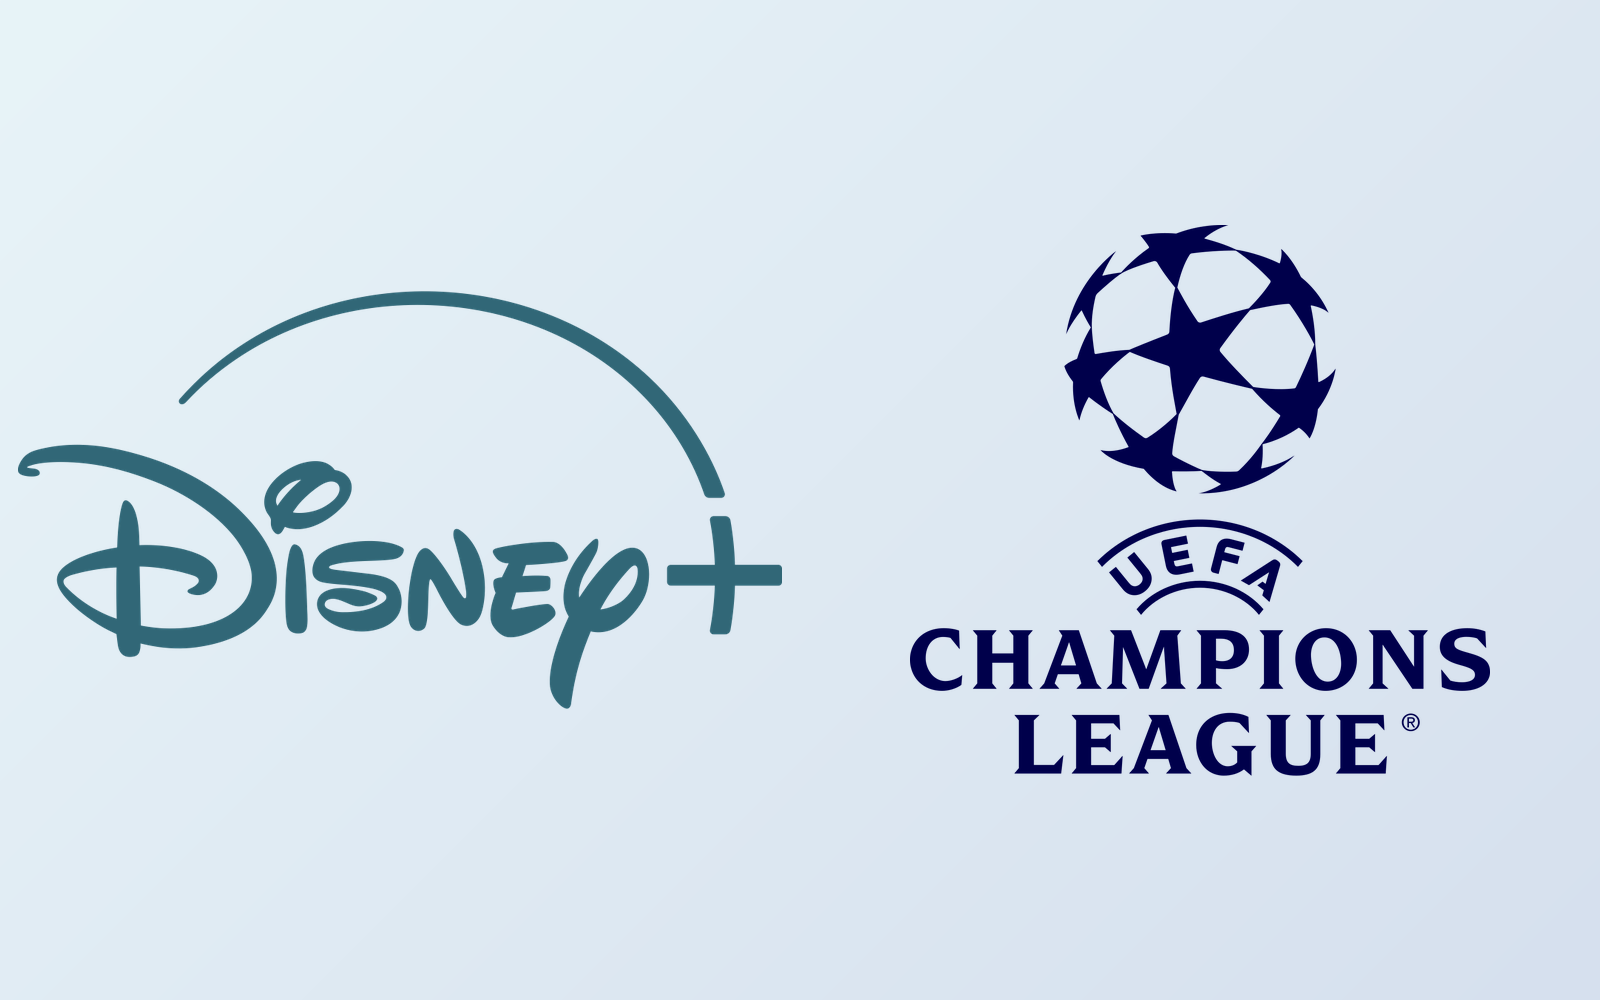
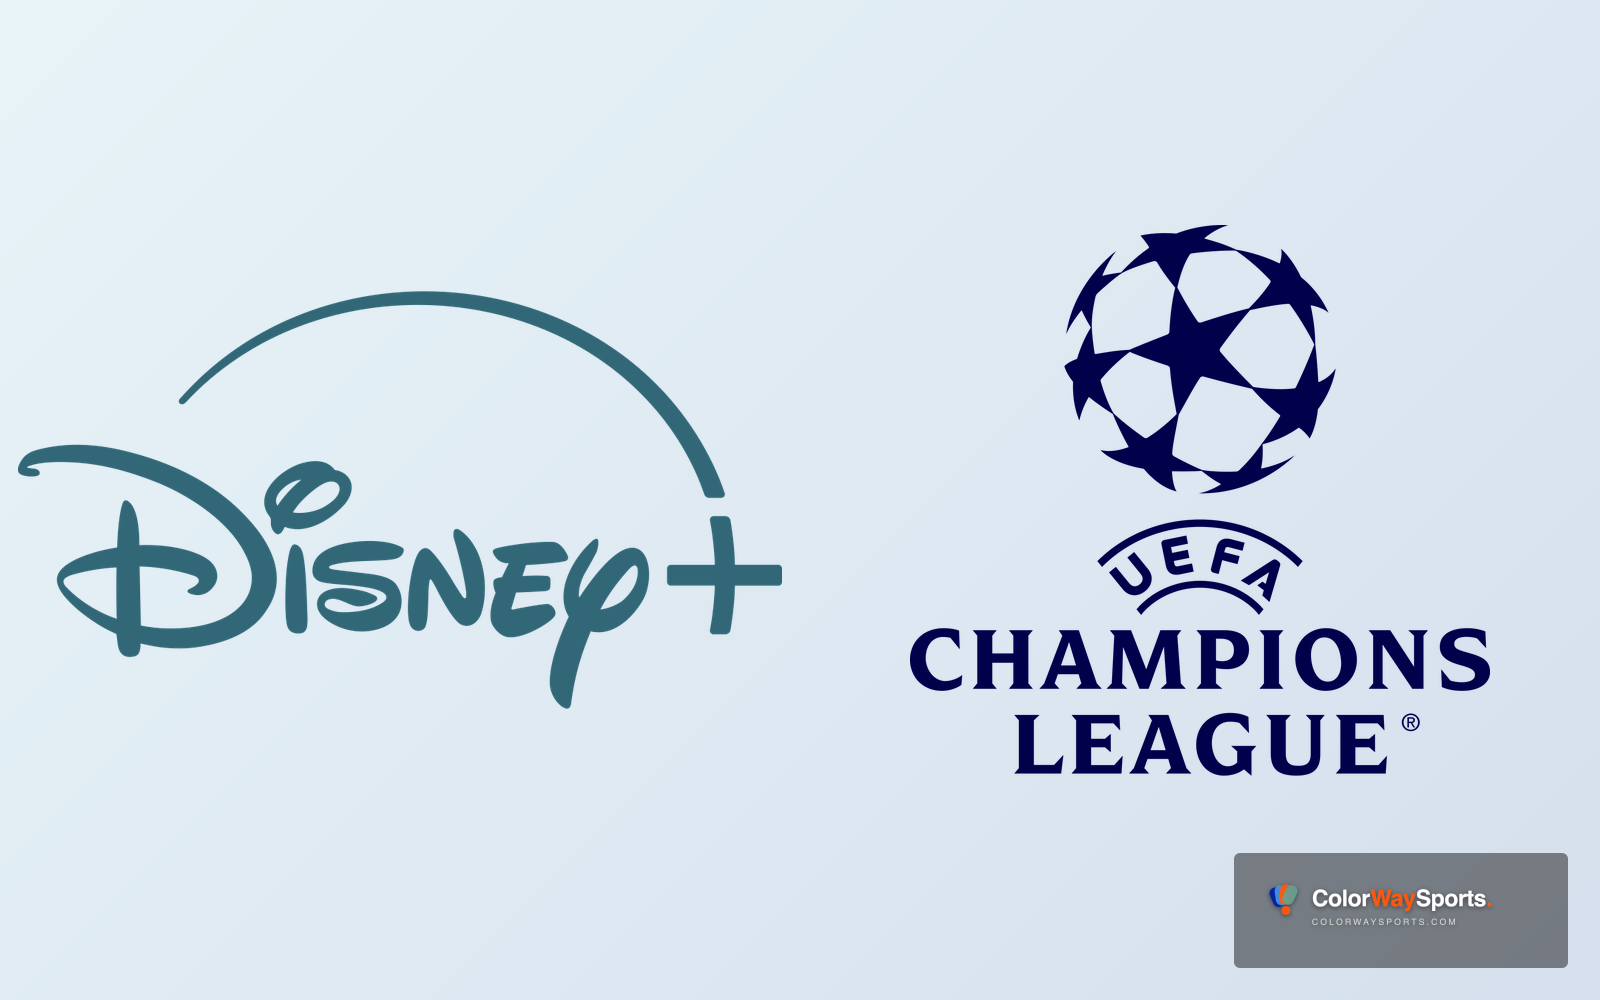
Add NBA broadcast themes ranked post and watermark all custom composites
New post ranks 2025-26 NBA broadcast theme songs (NBC A+, Prime B, ESPN C) with throwback A+ love for the retired NBA on TNT and old NBA on ESPN themes. Includes a 3-up cover composite, five YouTube embeds, and a 7-question FAQ. Also runs scripts/watermark.mjs over the existing Pac-12 old-vs-new and Disney+ x UCL composites so every custom graphic now carries the ColorWay Sports brand mark for screenshot reposts.

Changed region(s): [[0.75, 0.837, 1.0, 0.992]]

diff --git a/content/posts/nba-broadcast-themes-ranked-2026.md b/content/posts/nba-broadcast-themes-ranked-2026.md
@@ -1,0 +1,120 @@
+---
+title: "NBA on NBC vs Prime vs ESPN: Every 2025-26 Broadcast Theme Song Ranked"
+category: "NBA"
+date: "2026-04-27"
+excerpt: "We rank the 2025-26 NBA broadcast theme songs across NBC, Prime Video, and ESPN, with throwback love for the retired NBA on TNT and old NBA on ESPN intros."
+gradient: "linear-gradient(135deg, #F0F4F8 0%, #D8E2EC 100%)"
+league: "nba"
+teams: []
+coverImage: "/images/posts/nba-broadcast-themes-ranked-2026/nba-broadcast-themes-ranked-cover.png"
+coverImagePosition: "center 50%"
+coverImageFit: "contain"
+---
+
+<img src="/images/posts/nba-broadcast-themes-ranked-2026/nba-broadcast-themes-ranked-cover.png" alt="NBA on NBC, NBA on Prime, and NBA on ESPN logos lined up for the 2025-26 NBA broadcast theme song ranking" style="width: 100%; border-radius: 10px; margin-bottom: 2.5em;" />
+
+The 2025-26 season is the first year the NBA's national broadcast partners are split across NBC, Prime Video, and ESPN. TNT is out for the first time in 35 years. NBC is back for the first time since 2002. Prime Video is brand new to the league. Every one of those networks rolled out a theme song with their broadcast package, and the contrast between the three is one of the loudest design stories of the year. We ranked them, with bonus love for two retired themes that defined the previous era.
+
+## The 2025-26 NBA Broadcast Theme Songs Ranked
+
+### 1. NBA on NBC
+
+<div style="position: relative; padding-bottom: 56.25%; height: 0; overflow: hidden; max-width: 100%; margin: 2em 0; border-radius: 12px;">
+  <iframe src="https://www.youtube.com/embed/hl-eNWcgTYM" title="NBA on NBC theme song 2025-26 — Roundball Rock returns" frameborder="0" allow="accelerometer; autoplay; clipboard-write; encrypted-media; gyroscope; picture-in-picture; web-share" allowfullscreen style="position: absolute; top: 0; left: 0; width: 100%; height: 100%;"></iframe>
+</div>
+
+<div style="margin: 1.5em 0; padding: 1.25em; background: rgba(0, 200, 100, 0.1); border-radius: 12px; border: 1px solid rgba(0, 200, 100, 0.2);">
+  <p style="font-size: 1.5em; font-weight: 900; margin: 0; text-align: center; color: #00c864;">Grade: A+</p>
+</div>
+
+The absolute best of the three. NBC made the only choice that mattered when they got the NBA back: bring Roundball Rock with them. The John Tesh composition that scored every NBA broadcast in the 90s is one of the most iconic theme songs in the history of American sports television, and dropping it at the front of every NBC NBA broadcast in 2025-26 is the kind of move that wins fans before tip-off. The horns hit, the melody rises, and a generation of viewers gets a memory they did not even know they were waiting for. There is no version of this rollout that scores below an A+. NBC understood the assignment.
+
+### 2. NBA on Prime
+
+<div style="position: relative; padding-bottom: 56.25%; height: 0; overflow: hidden; max-width: 100%; margin: 2em 0; border-radius: 12px;">
+  <iframe src="https://www.youtube.com/embed/qflGqrymvTk" title="NBA on Prime Video theme song 2025-26" frameborder="0" allow="accelerometer; autoplay; clipboard-write; encrypted-media; gyroscope; picture-in-picture; web-share" allowfullscreen style="position: absolute; top: 0; left: 0; width: 100%; height: 100%;"></iframe>
+</div>
+
+<div style="margin: 1.5em 0; padding: 1.25em; background: rgba(200, 180, 0, 0.1); border-radius: 12px; border: 1px solid rgba(200, 180, 0, 0.2);">
+  <p style="font-size: 1.5em; font-weight: 900; margin: 0; text-align: center;">Grade: B</p>
+</div>
+
+The Prime Video theme is a real attempt at building a brand new audio identity for a brand new NBA partner. It has a modern cinematic feel, builds slowly, and lands with enough impact to do its job. We actually like it. Prime is starting from zero with no nostalgia equity, and the choice to write something fresh instead of cribbing a familiar sound is the right call for a streaming-first network trying to brand itself as the home for premium NBA broadcasts. It will take time to grow on us the way Roundball Rock or the old TNT theme did, but a generation of fans will eventually remember this as the sound of NBA on Prime. Solid B for now.
+
+### 3. NBA on ABC and ESPN
+
+<div style="position: relative; padding-bottom: 56.25%; height: 0; overflow: hidden; max-width: 100%; margin: 2em 0; border-radius: 12px;">
+  <iframe src="https://www.youtube.com/embed/8L6EsFXh2O8" title="NBA on ESPN and ABC current theme song 2025-26" frameborder="0" allow="accelerometer; autoplay; clipboard-write; encrypted-media; gyroscope; picture-in-picture; web-share" allowfullscreen style="position: absolute; top: 0; left: 0; width: 100%; height: 100%;"></iframe>
+</div>
+
+<div style="margin: 1.5em 0; padding: 1.25em; background: rgba(200, 180, 0, 0.1); border-radius: 12px; border: 1px solid rgba(200, 180, 0, 0.2);">
+  <p style="font-size: 1.5em; font-weight: 900; margin: 0; text-align: center;">Grade: C</p>
+</div>
+
+The current ABC and ESPN NBA theme leans hip-hop, and we get the strategic logic of trying to feel current and connect to the way the NBA culture has evolved. But the song does not carry the elegance the bigger games deserve. Conference Finals on ABC should sound like an event. Saturday Primetime on ABC should sound like the league showing off. Instead the broadcast opens with something that feels closer to a hype reel score than a marquee theme. C from us, with the asterisk that ESPN had a theme that crushed for years and could just bring it back, the same way NBC did with Roundball Rock.
+
+## What We Lost: The Two Retired Themes That Still Hit
+
+Two of the best NBA theme songs ever produced are sitting on the shelf in 2026. The old NBA on ESPN theme that scored an entire era of regular-season and playoff broadcasts. And the NBA on TNT theme, which was the soundtrack to two decades of Eastern Conference Finals and Inside the NBA cold opens. Both deserve their flowers.
+
+### Throwback: Old NBA on ESPN
+
+<div style="position: relative; padding-bottom: 56.25%; height: 0; overflow: hidden; max-width: 100%; margin: 2em 0; border-radius: 12px;">
+  <iframe src="https://www.youtube.com/embed/f-qpdCcUffs" title="Old NBA on ESPN theme song from the regular season and playoff era" frameborder="0" allow="accelerometer; autoplay; clipboard-write; encrypted-media; gyroscope; picture-in-picture; web-share" allowfullscreen style="position: absolute; top: 0; left: 0; width: 100%; height: 100%;"></iframe>
+</div>
+
+<div style="margin: 1.5em 0; padding: 1.25em; background: rgba(0, 200, 100, 0.1); border-radius: 12px; border: 1px solid rgba(0, 200, 100, 0.2);">
+  <p style="font-size: 1.5em; font-weight: 900; margin: 0; text-align: center; color: #00c864;">Grade: A+</p>
+</div>
+
+The old NBA on ESPN theme ran across the regular season and the playoffs and never missed. It carried the right amount of drama, the horns sat at exactly the right register, and the melody had the kind of structural shape you remember without trying. ESPN made the wrong call walking away from it. The 2025-26 ABC and ESPN package would have been instantly upgraded by either reintroducing this theme or building something new that lived in the same emotional pocket. NBC just proved that bringing back the old one is a winning move. ESPN should be next.
+
+### Throwback: NBA on TNT
+
+<div style="position: relative; padding-bottom: 56.25%; height: 0; overflow: hidden; max-width: 100%; margin: 2em 0; border-radius: 12px;">
+  <iframe src="https://www.youtube.com/embed/PA4kJCDaepc" title="NBA on TNT theme song retired after 35 years on Turner" frameborder="0" allow="accelerometer; autoplay; clipboard-write; encrypted-media; gyroscope; picture-in-picture; web-share" allowfullscreen style="position: absolute; top: 0; left: 0; width: 100%; height: 100%;"></iframe>
+</div>
+
+<div style="margin: 1.5em 0; padding: 1.25em; background: rgba(0, 200, 100, 0.1); border-radius: 12px; border: 1px solid rgba(0, 200, 100, 0.2);">
+  <p style="font-size: 1.5em; font-weight: 900; margin: 0; text-align: center; color: #00c864;">Grade: A+</p>
+</div>
+
+The NBA on TNT theme is gone with TNT itself. After 35 years, Turner lost the NBA rights and the theme retired with the package. We grew up with this one. Eastern Conference Finals tipoffs, every Inside the NBA cold open, every Charles Barkley monologue led in by the brass. The TNT theme was a piece of furniture in our basketball lives, and now the room is empty. Maybe we are biased by the history. We are not pretending otherwise. A+ for what it was, what it carried, and what it is going to feel like missing it across every postseason from here on out.
+
+## The Pattern
+
+Two of the three best theme songs in the modern NBA broadcast landscape are themes that retired or returned. The current NBA on NBC theme is a 90s composition that came back. The old NBA on ESPN theme is sitting unused while the current ABC and ESPN package leans on something that does not quite land. The NBA on TNT theme is gone forever along with Turner's run on the league. Nostalgia is winning. NBC saw it. ESPN should see it next.
+
+## Frequently Asked Questions About the 2025-26 NBA Broadcast Theme Songs
+
+**What is the new NBA on NBC theme song for 2025-26?**
+
+NBC brought back Roundball Rock, the John Tesh composition that scored every NBA on NBC broadcast from 1990 to 2002. It is the same theme NBA fans remember from the Jordan-era Bulls, the Magic Johnson Lakers, and the Hakeem Olajuwon Rockets, and NBC reinstated it as the official NBA on NBC theme for the 2025-26 season relaunch.
+
+**Who composed Roundball Rock?**
+
+John Tesh wrote and composed Roundball Rock, originally for the NBA on NBC package that launched in 1990. The theme aired across every NBC NBA broadcast through the 2001-02 season and returned with NBC's NBA package for 2025-26.
+
+**What is the NBA on Prime Video theme song?**
+
+Prime Video debuted a brand new NBA theme song for its inaugural 2025-26 broadcast package. It is a modern cinematic composition built specifically for the Prime Video NBA package, with no historical reference to previous NBA themes from any other network.
+
+**What is the current NBA on ABC and ESPN theme song?**
+
+The current ABC and ESPN NBA package uses a hip-hop-leaning theme song that opens regular-season, conference, and Finals broadcasts on the network. It is different from the orchestral NBA on ESPN theme that ran across the network's earlier NBA broadcasts.
+
+**Did the NBA on TNT theme go away?**
+
+Yes. TNT lost its NBA rights starting with the 2025-26 season, ending a 35-year partnership between the league and Turner. The NBA on TNT theme retired with the package and is no longer in active use on any NBA national broadcast.
+
+**Will the NBA Finals have a different theme song?**
+
+Yes, historically each NBA national broadcaster has used a separate NBA Finals package with its own intro and theme cue. We are covering the NBA Finals theme songs across the eras in a separate post coming soon.
+
+**What was the old NBA on ESPN theme song?**
+
+The old NBA on ESPN theme was an orchestral composition that scored the network's regular-season and playoff NBA broadcasts for years before the current hip-hop-leaning theme replaced it. The old theme is widely considered one of the best NBA broadcast themes of the modern era and is sitting unused on ESPN's shelf as of 2026.
+
+## Coming Next
+
+We are working on a separate ranking of every NBA Finals theme song across the eras, since the Finals package historically gets its own theme distinct from the regular-season broadcast intro. NBC, ABC, ESPN, and TNT all built dedicated Finals cues over the years, and the evolution of the Finals theme is its own story.
